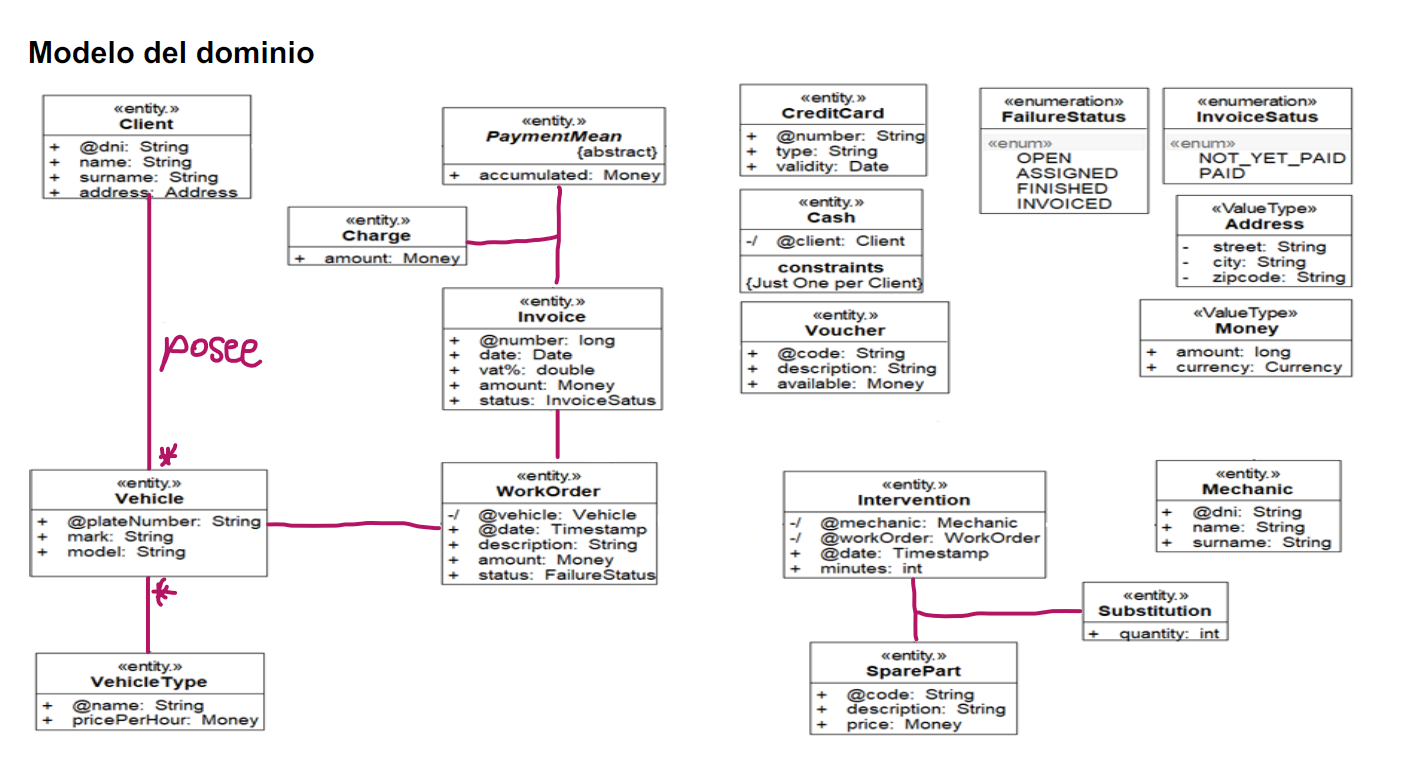
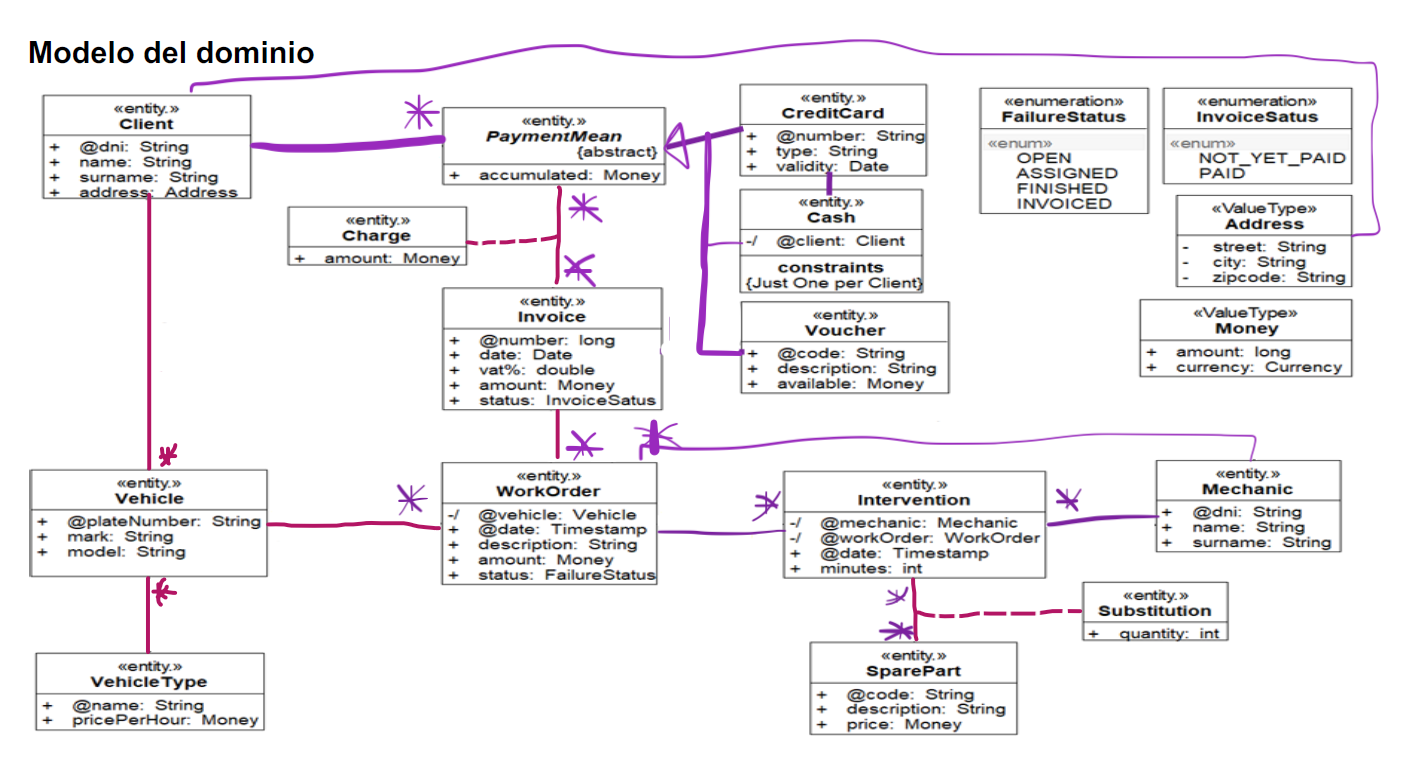
ri seminario

diff --git a/3 CURSO/RI/Seminarios 🥸.md b/3 CURSO/RI/Seminarios 🥸.md
@@ -1,5 +1,6 @@
 # 16 Sept 2022
 ---
 ![[ej seminario 1.png]]
+Corregido ✓
 
 ---
